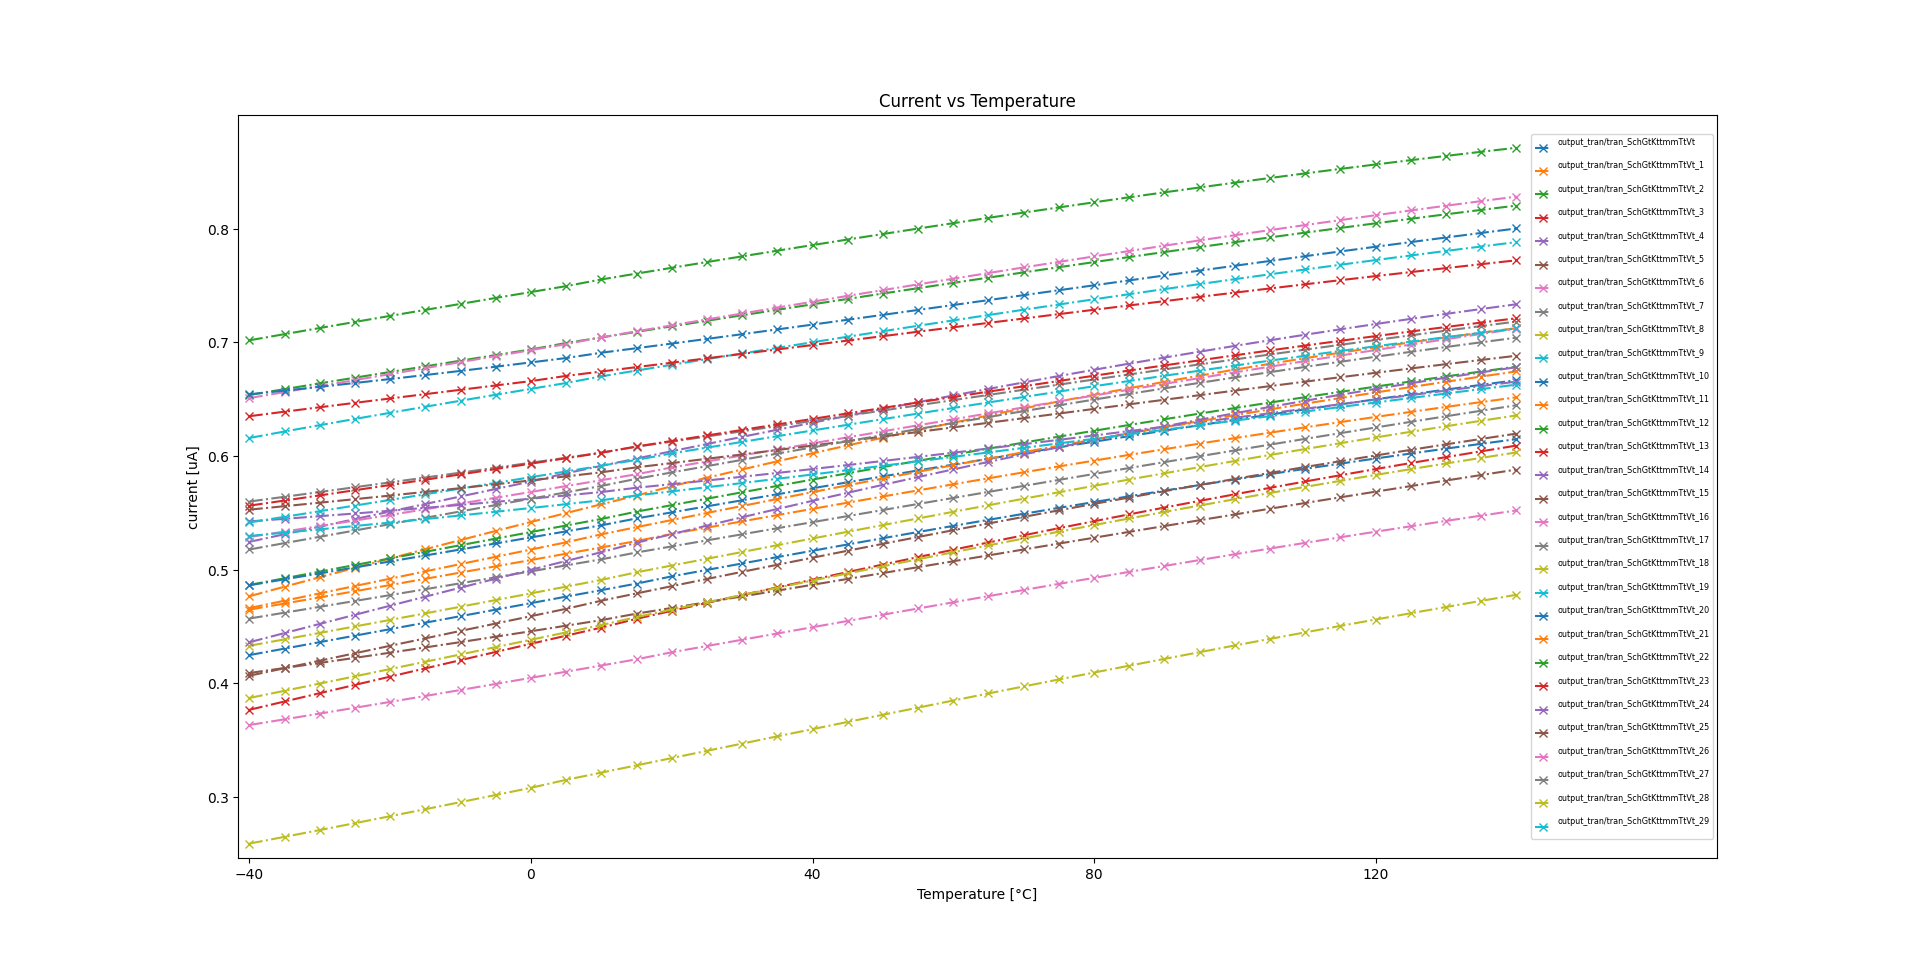
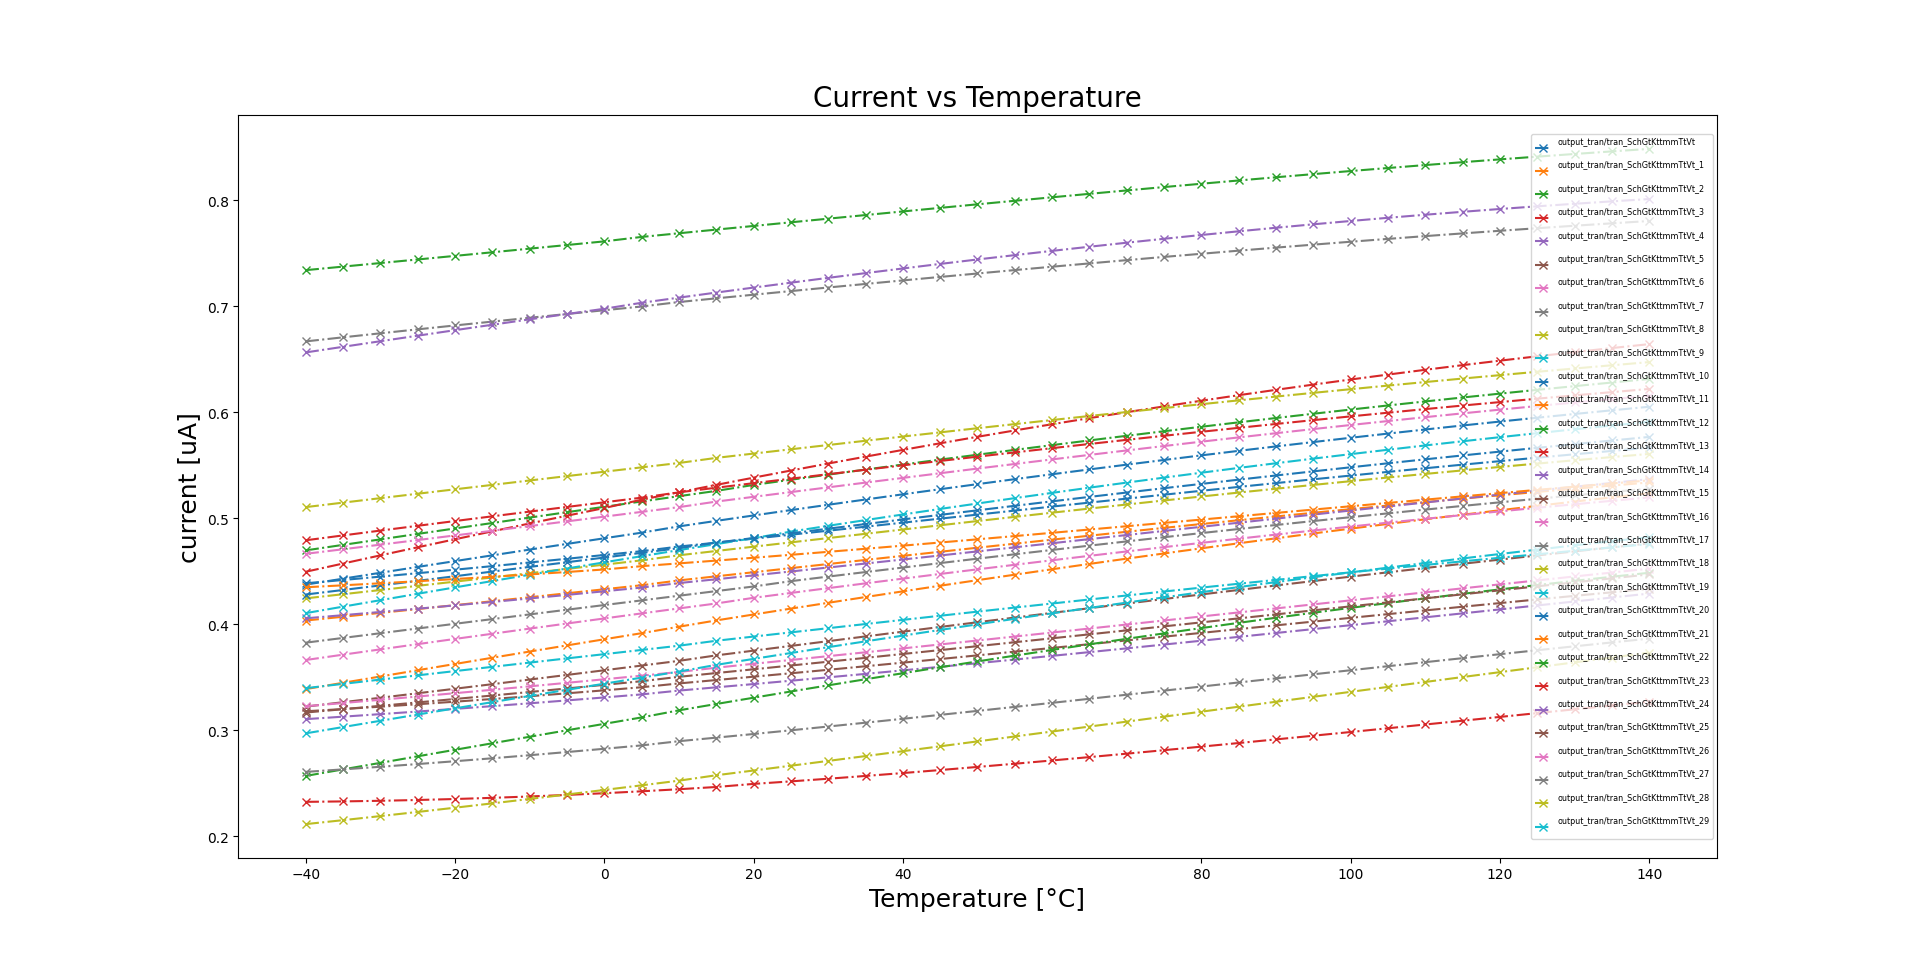
Solved issues highlighted by Willfern

diff --git a/sim/TB_JNW_GR03_LSTB/summary_plot.py b/sim/TB_JNW_GR03_LSTB/summary_plot.py
@@ -11,12 +11,12 @@ with open('mc_summary.txt','r') as f:
   for sim in corners:
     cornername.append(sim[-1])
     for i in range(len(sim)-1):
-      sim[i] = float(sim[i])*10**6
+      sim[i] = float(sim[i])
     plt.plot(temps,(sim[:-1]),linestyle="dashdot",marker='x')
     
   plt.legend(cornername, fontsize = "xx-small", loc='center right')
-  plt.ylabel("current [uA]")
-  plt.xlabel("Temperature [°C]")
-  plt.title("Current vs Temperature")
-  plt.xticks([-40,0,40,80,120])
+  plt.ylabel("current [uA]", fontsize = 18)
+  plt.xlabel("Temperature [°C]", fontsize = 18)
+  plt.title("Current vs Temperature", fontsize = 20)
+  plt.xticks([-40,-20,0,20,40,80,100,120,140])
   plt.show()

diff --git a/sim/TB_JNW_GR03_LSTB/tran.py b/sim/TB_JNW_GR03_LSTB/tran.py
@@ -36,10 +36,10 @@ def main(name):
   
   plt.title(f"{sorted_current[-1]/sorted_current[0]}")
   plt.plot(sorted_temp, sorted_current)
-  plt.ylabel("current [uA]")
-  plt.xlabel("Temperature [°C]")
-  plt.title("Current vs Temperature")
-  plt.xticks([-40,0,40,80,120])
+  plt.ylabel("current [muA]", fontsize = 18)
+  plt.xlabel("Temperature [°C]", fontsize=18)
+  plt.title("Current vs Temperature", fontsize= 20)
+  plt.xticks([-40,-20,0,20,40,60,80,100,120,140])
 
   plt.show()
   if name.startswith('output_tran/tran_SchGtKttmmTtVt'):

diff --git a/design/JNW_GR03_SKY130A/JNW_GR03_DigitalControl.md b/design/JNW_GR03_SKY130A/JNW_GR03_DigitalControl.md
@@ -1,0 +1,43 @@
+The last step is to convert this analog period of time value into a digital value coded with 8 bits. \
+To do that, we have built an 8 bits asynchronous counter. It will count how many clock cycle passed during the time period and by knowing the period of a clock cycle we can compute the real period to charge the capacitor and at the and the temperature value. \
+The 8 bits counter is build with 8 D flip-flops with falling edge and reset. \
+It's asynchronous because only the first flip flop is driven by the clock signal, the others flip flops are driven by the output of the previous flip flop. \
+We have had also D latch at the output of each bit signal of the counter to be able to save the last temperature measurment, so we can continuously measure the temperature and increamenting the counter. \
+With this we can saved the last measured value and the user can read the value later even if a new measurement is running (counter -> output bit changing with counting process). \
+With this the user don't need to be synchronize with the sensor to get the accurate value of the temperature. \
+At the end, we need to control, with logical gate, reset period, saving data period and measuring period. \
+So when the value of the comparator is "1" (capacitor voltage higher than reference voltage, ) we need to :
+
+- stop the clock, to fix the digital output value to the right value
+We need to achieve this truth table
+
+| OUT_COMPA | CLK | CLK_COUNT   |
+| :-        | :-: | :-:         |
+| 0         | 0   | 0           |
+| 0         | 1   | 1           |
+| 1         | 0   | 1 (no edge) |
+| 1         | 1   | 1 (no edge) |
+
+So we need a NOR gate
+
+- then save the 8 bits values into the D latches.
+We connect the output bit signal of the counter to the D input and the enable signal of the latch is the output of the comparator. 
+
+| OUT_COMPA | Bx_OUTCOUNT | Bx_LATCH  |
+| :-        | :-:         | :-:       |
+| 0         | X           | Latched   |
+| 1         | 0           | 0 (saved) |
+| 1         | 1           | 1 (saved) | 
+
+- then we can reset the counter, the capacitor and resart the main clock to resart counting and measuring
+To do this we have add a supplementary 2 bit counter to delay the time when the output signal of the comparator reach "1" and when we need to reset the counter. This is important because the saving process of the 8 bits into D latch is slower than the process to reset the counter and we want to save the value measured not the reseted value.\
+(during reset of capacitor voltage will drop to 0V so the comparator value will be "0")We can see  in the first graph, the output signal of the comparator which as almost a reset function \
+The second graph is the clock signal. \
+
+| ![Simulation for all digital sub-circuit, counter, latch, and reset function](Media/FirstTestFullControl.png) |
+| :-: |
+| *Simulation for the all digital sub-circuit with counter, latches and reset function* |
+
+The third graph show when the auxialiar counter reach his maximal value and we can reset the main counter because measured value is stored \
+In the forth and fifth is the B0 and B1 just at the output of the counter. We see that counter is working well by incrementing value. \
+In the sixth graph, we can see the B2 signal at the output of his D latch. We see that the value is well store at the end of the auxiliary counter (value saved to make user reading easy).

diff --git a/design/JNW_GR03_SKY130A/JNW_GR03_tvsI.md b/design/JNW_GR03_SKY130A/JNW_GR03_tvsI.md
@@ -1,0 +1,10 @@
+This conversion is mainly based on the charging time of a capacitor. With the constant current provide by the first sub-circuit the capacitor will charge linearly with respect to time. \
+With the fact that the output current is proportionnal to temperature. The slope of the voltage versus time during charging time is proportionnal to the temperature. \
+So,now we will compare this output voltage to a reference voltage. We measure the rising time from 0V to the voltage reference. This period of time will be proportional to temperature. \
+We have a transistor which is use as a swith to reset to 0V the capacitor when it is charged. \
+To compare the 2 signals (capacitor output voltage and reference voltage), we use the same OP-AMP describe in the first sub-circuit, but working in comparison mode.
+
+Note : The voltage reference is now just a voltage divider made with two resistors, it's ok to do this because the input current into the OP-AMP is really small so will don't have a huge voltage drop. Voltage reference will be change a bit with a temperature variation (due to resistance) but it is really small (less than a mV by simulation) so this difference in voltage reference will change so little the time period that the digital conversion will earase this disfunctionnality. Futhermore, we don't have the time to build a better voltage reference and we prefer to concentrate in other part of the circuit like digital conversion and increase sensibility.  
+
+Note: the comparator is made using the same OTA used in "Sub cicuit 1 : Conversion from temperature to current". We have experienced some problem with this approach in respect to timing of digital LOW to HIGH not happening at the rizing or falling edge of the clock signal. We plan to implement at track-and-latch comparator to combat this at a later date. 
+

diff --git a/design/JNW_GR03_SKY130A/JNW_GR03_AMP.md b/design/JNW_GR03_SKY130A/JNW_GR03_AMP.md
@@ -1,5 +1,14 @@
-The ota is implemented in a feedback configuration with the folloing specifications:
+Implemented OTA has a 3 current mirror topology with PMOS differential input. The ota is used in a feedback configuration in the IvsT circuit with the following specifications:
 
-|       f3db |   gm_db |   lf_gain |   pm_deg |         ug |   v(lpo) |   v(xdut.vd1) |   v(xdut.vr1) |       vdiff | name              | time                     | type   |
-|------------|---------|-----------|----------|------------|----------|---------------|---------------|-------------|-------------------|--------------------------|--------|
-| 1.7484e+05 | -14.105 |    42.942 |   53.739 | 2.2425e+07 |  0.80777 |       0.62295 |       0.62349 | -0.00053489 | lstb_SchGtKttTtVt | Sun Mar 16 19:18:10 2025 | Sch    |
+| Parameter   | value      |
+| :--         | --:        |
+| f3db        | 1.7484e+05 |
+| gm_db       | -14.105    |
+| lf_gain     | 42.942     |
+| pm_deg      | 53.739     |
+| ug          | 2.2425e+07 |
+| v(lpo)      | 0.80777    |
+| v(xdut.vd1) | 0.62295    |
+| v(xdut.vr1) | 0.62349    |
+| vdiff       | -0.000534  |
+

diff --git a/README.md b/README.md
@@ -47,7 +47,7 @@ The designed ota has topology as shown in the figure below:
 | :-: |
 | *Schematic of 3 current mirror ota.* |
 
-The ota is implemented in a feedback configuration with the folloing specifications:
+The ota is implemented in a feedback configuration with the following specifications:
 
 
 | Parameter   | value      |

diff --git a/design/JNW_GR03_SKY130A/JNW_GR03.md b/design/JNW_GR03_SKY130A/JNW_GR03.md
@@ -1,0 +1,1 @@
+Some explanation for the top level of the circuit
